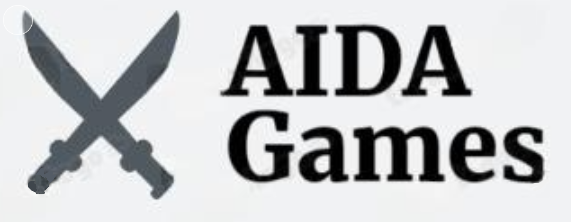
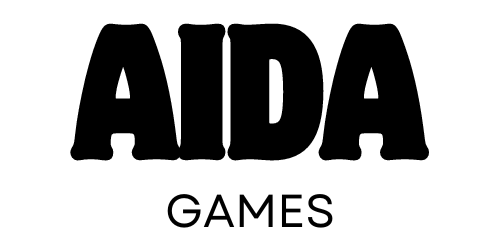
backcard

diff --git a/css/productos.css b/css/productos.css
@@ -132,8 +132,6 @@ h3::after{
 }
 
 .product-box-image::after {
-    content: "Ver mas";
-
     color: white;
     background-color: rgba(0, 0, 0, 0.5);
     inset: 0;
@@ -156,12 +154,44 @@ h3::after{
     width: 100%;
     border-radius: 5px;
     padding: 10px;
-    height: 95%;
+    height: 80%;
+    color: white;
+    margin-bottom: 27%;
+    line-height:1.25;
+    position: relative;
+    background-color: black;
+    box-shadow: 0 0 10px rgba(0, 0, 0, 0.4);
+    border: solid;
+    border-color: black;
+    border-width: 3px;
 }
+
+
+
+
+  .reglonoverlay p{
+    margin-top:10px;
+    position: relative;
+    z-index: 100;
+    text-align:end;
+  }
+
+  .reglonoverlay::before {
+    content: "";
+    position: absolute;
+    top: 0;
+    left: 0;
+    width: 100%;
+    height: 100%;
+    background: linear-gradient(to bottom, transparent 93%, white );
+    background-size: 100% 20px;
+    z-index: 0;
+  }
+
 .overlay{
 
     padding: 20px;
-    /* background-color: rgba(30, 22, 22, 0.5); */
+    background-color:whitesmoke;
     color: white;
 
     width: 100%;
@@ -198,7 +228,7 @@ h3::after{
   }
 .back button{
     margin-top: 3%;
-    width: 80%;
+    width: 100%;
 }
 
 .auxiliar{
@@ -228,6 +258,15 @@ h3::after{
     transform: translateY(0%);
 
 }
+
+
+.rotar{
+    width: 100%;
+    border-radius: 10px;
+    color: white;
+    background-color: dimgrey;
+}
+
 
 
 

diff --git a/js/productos.js b/js/productos.js
@@ -16,13 +16,17 @@ function initializeCarousel(juegos_json) {
                         <div class="product-details">
                             <h4 class="product-title">${juegos_json[i].nombre}</h4>
                             <p class="product-price">${juegos_json[i].precio}</p>
-                            <button class="descripcion">Descripcion</button>
+                            <button class="rotar">Descripcion 📄</button>
                         </div>
                     </div>
                     <div class="back">
                         <div class="overlay">
-                            <div class="reglonoverlay">${juegos_json[i].descripcion}</div> 
-                            <button class="descripcion">Voltear</button>  
+                            <div class="reglonoverlay">
+							<p>
+							${juegos_json[i].descripcion}
+							</p>
+							</div> 
+                            <button class="rotar">Voltear 🔁</button>  
                         </div>
                     </div>
                 </div>
@@ -80,7 +84,7 @@ $(document).ready(function() {
 
 
 
-        document.querySelectorAll('.descripcion').forEach(button => {
+        document.querySelectorAll('.rotar').forEach(button => {
             button.addEventListener('click', function() {
                 var productCard = this.closest('.product-card');
         

diff --git a/css/header.css b/css/header.css
@@ -68,17 +68,51 @@
 .dropdown-item {
     z-index: 1000;
 }
-
-
-
 #barra {
     background-color: none;
 }
 
+
+.logo img{
+    border: solid;
+    border-color: black;
+    border-width: 1px;
+    border-radius: 15px;
+    height: 65px;
+    margin-left:60px;
+    position: relative;
+}
+.logo img:hover{
+    box-shadow: 1px 1px 1px 1px rgba(35, 0, 233, 1), /* Sombra blanca */
+    -1px -1px 1px 1px rgb(255, 0, 0),  /* Sombra negra desplazada */
+    1px -1px 1px 1px rgb(255, 255, 255), /* Sombra blanca */
+    -1px 1px 1px 1px rgb(255, 255, 255)
+
+}
+
+
+
+
+
+
+
+
+
+
+
+
+
+
+
+
+
+
+
+
+
 #barra h1{
-    font-size: x-large;
-    font-weight: 700;
-    margin-top: 3px;
+    position: absolute;
+    color: transparent;
     
 }
 

diff --git a/js/header.js b/js/header.js
@@ -1,7 +1,9 @@
 const header = $(`header`);
 
 header.append(`
-    <div><h1>Aida Games</h1></div>
+    <div class="logo">
+    <img src="./img/aidagames.png">
+    </div>
 <nav class="row g-0 align-items-center">  
     <a class="col p-md-1 me-xl-4 boton_navegacion d-none d-xl-block" href="index.html">Inicio</a>
     <a id="boton_header_subscripciones" class="col p-md-1 me-xl-4 boton_navegacion d-none d-xl-block" href="index.html#banner">Subscripciones</a>

diff --git a/js/data.js b/js/data.js
@@ -151,7 +151,7 @@ var juegos_json=[
         "descripcion_larga": "El juego es conocido por su jugabilidad competitiva y la necesidad de estrategias bien planificadas para vencer a los oponentes.",
         "imagen": "counter.jpg",
         "precio": "$19.99",
-        "foto1": "",
+        "foto1": "counter_f1.jpg",
         "foto2": "",
         "foto3": ""
     },

diff --git a/js/index.js b/js/index.js
@@ -34,7 +34,7 @@ function startTimer(duration, display) {
 }
 
 window.onload = function () {
-    const duration = 24 * 60 * 60; // 24 hours in seconds
+    const duration = 24 * 60 * 60;
     const display = document.getElementById('timer');
     startTimer(duration, display);
 };

diff --git a/productos.html b/productos.html
@@ -35,7 +35,6 @@
           </div>
      </div>
     
-
     <!-- Productos -->
     <section>
         <div class="titulo">
